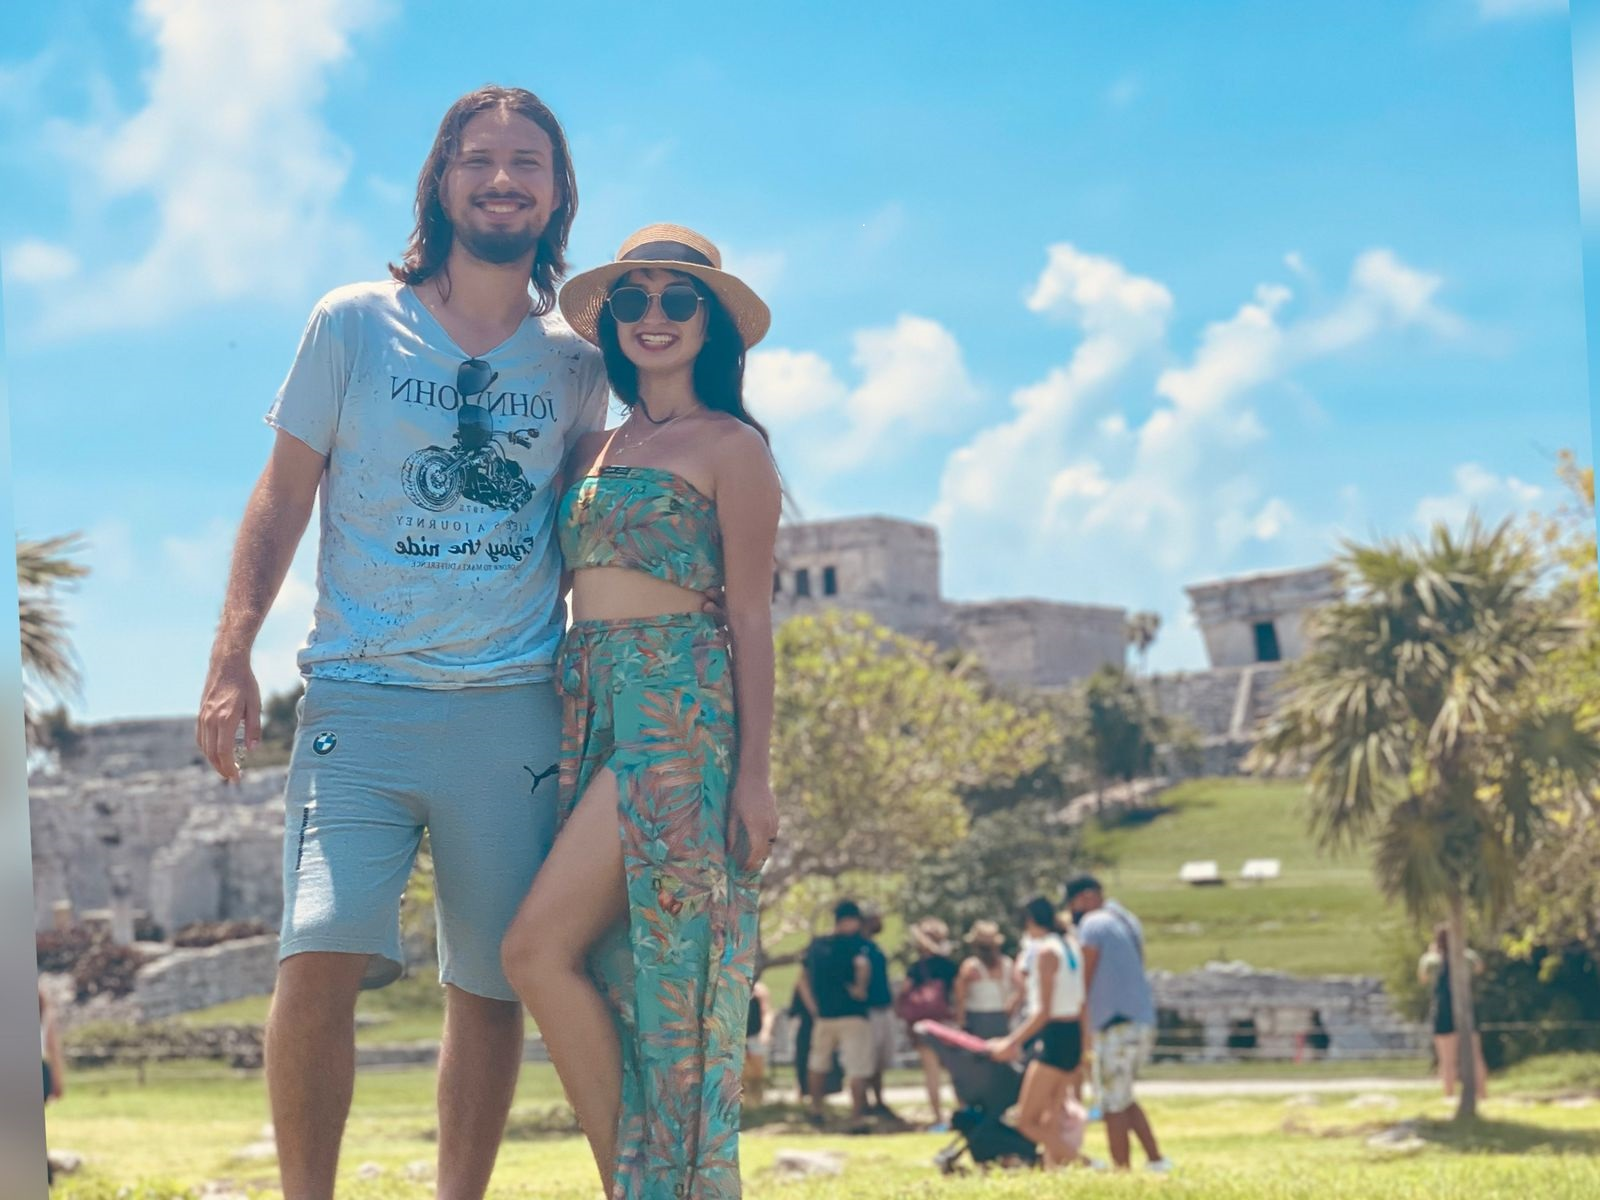
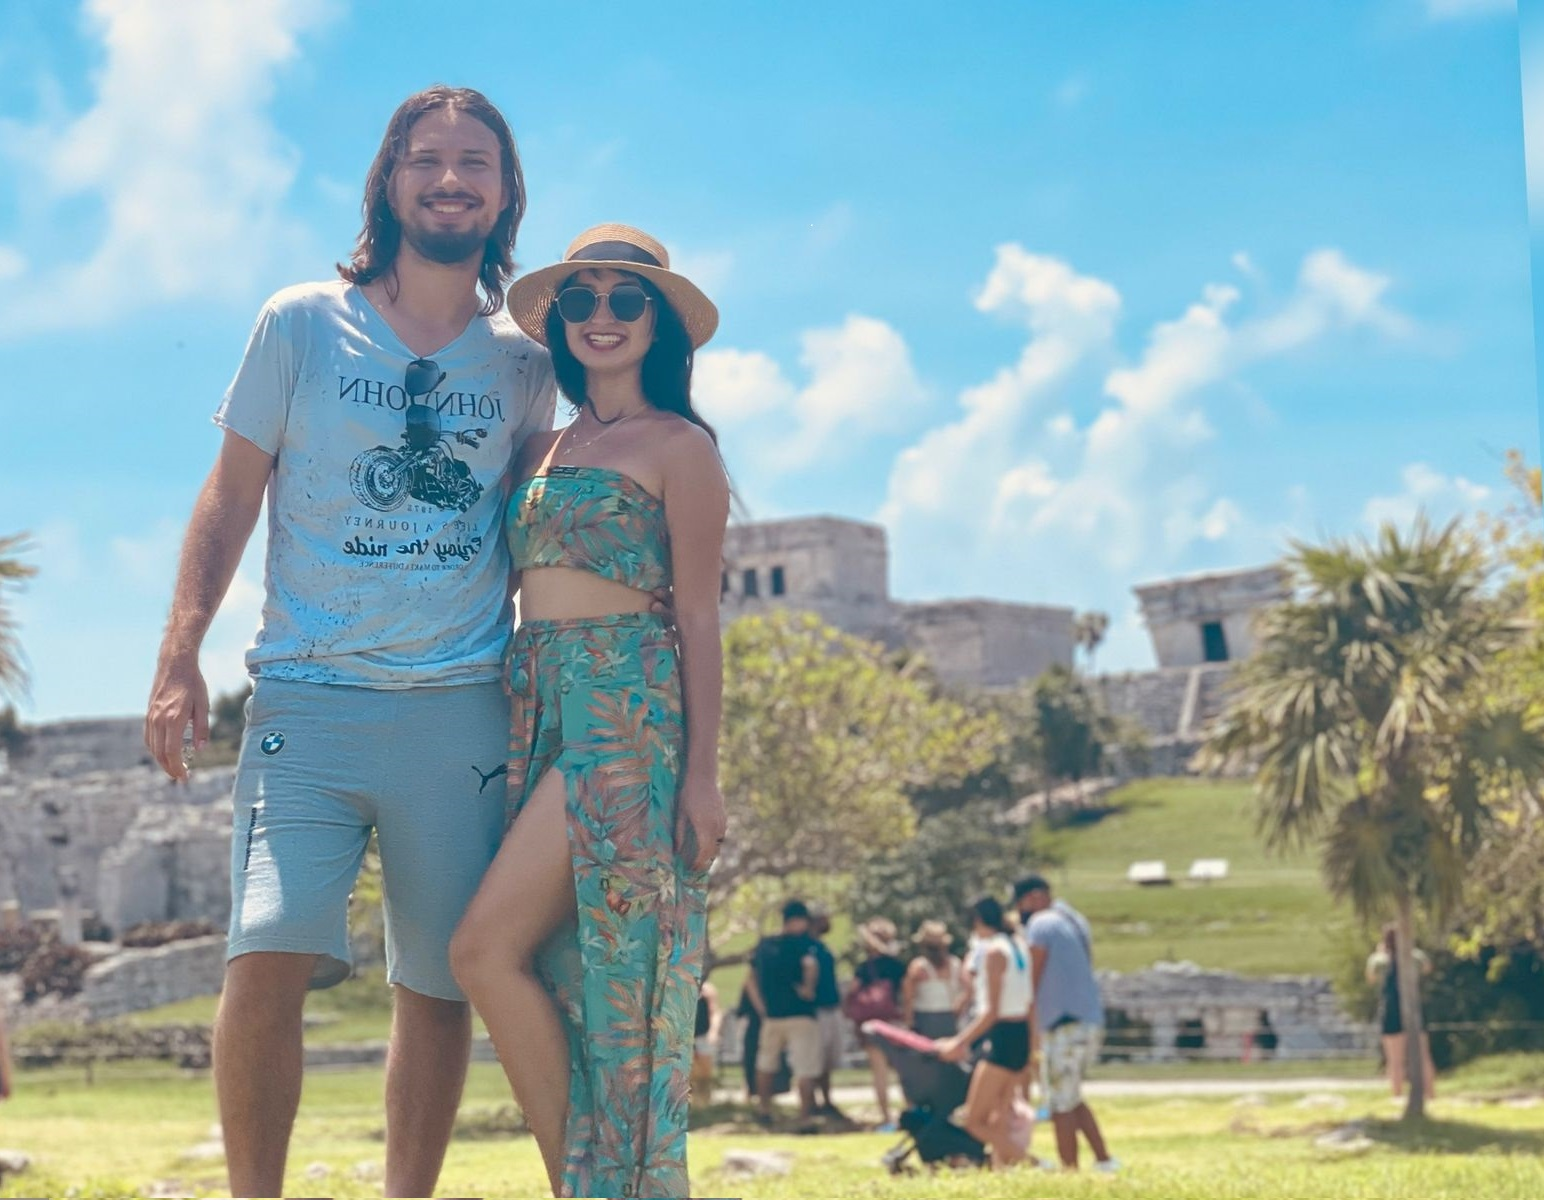
corrige borda da imagem de fundo

diff --git a/index.html b/index.html
@@ -68,7 +68,7 @@
 	<body>
 		
 	<div class="fh5co-loader"></div>
-	
+
 	<div id="page">
 	<nav class="fh5co-nav" role="navigation">
 		<div class="container">
@@ -179,6 +179,7 @@
 									</div>
 									<p>Local: Igreja Nossa Senhora Conceição Vila Arens<br/>
 									Endereço: R. Gen. Carneiro, 106 - Vila Arens II, Jundiaí - SP, 13202-590</p>
+									
 								</div>
 							</div>
 							<div class="col-md-6 col-sm-6 text-center">
@@ -587,47 +588,55 @@
 	<script src="js/main.js"></script>
 
 	<script>
-    // var d = new Date(new Date().getTime() + 200 * 120 * 120 * 2000);
-    var d = new Date('2022-12-10T16:00:00');
-
-    // default example
-    simplyCountdown('.simply-countdown-one', {
-        year: d.getFullYear(),
-        month: d.getMonth() + 1,
-        day: d.getDate()
-    });
-
-    //jQuery example
-    $('#simply-countdown-losange').simplyCountdown({
-        year: d.getFullYear(),
-        month: d.getMonth() + 1,
-        day: d.getDate(),
-        enableUtc: false
-    });
-
-	window.smoothScroll = function(target) {
-		var scrollContainer = target;
-		do { //find scroll container
-			scrollContainer = scrollContainer.parentNode;
-			if (!scrollContainer) return;
-			scrollContainer.scrollTop += 1;
-		} while (scrollContainer.scrollTop == 0);
-
-		var targetY = 0;
-		do { //find the top of target relatively to the container
-			if (target == scrollContainer) break;
-			targetY += target.offsetTop;
-		} while (target = target.offsetParent);
-
-		scroll = function(c, a, b, i) {
-			i++; if (i > 30) return;
-			c.scrollTop = a + (b - a) / 30 * i;
-			setTimeout(function(){ scroll(c, a, b, i); }, 20);
+		function myMap() {
+			var mapProp= {
+				center:new google.maps.LatLng(51.508742,-0.120850),
+				zoom:5,
+			};
+			var map = new google.maps.Map(document.getElementById("googleMap"),mapProp);
 		}
-		// start scrolling
-		scroll(scrollContainer, scrollContainer.scrollTop, targetY, 0);
-	}
-</script>
+		
+		// var d = new Date(new Date().getTime() + 200 * 120 * 120 * 2000);
+		var d = new Date('2022-12-10T16:00:00');
+
+		// default example
+		simplyCountdown('.simply-countdown-one', {
+			year: d.getFullYear(),
+			month: d.getMonth() + 1,
+			day: d.getDate()
+		});
+
+		//jQuery example
+		$('#simply-countdown-losange').simplyCountdown({
+			year: d.getFullYear(),
+			month: d.getMonth() + 1,
+			day: d.getDate(),
+			enableUtc: false
+		});
+
+		window.smoothScroll = function(target) {
+			var scrollContainer = target;
+			do { //find scroll container
+				scrollContainer = scrollContainer.parentNode;
+				if (!scrollContainer) return;
+				scrollContainer.scrollTop += 1;
+			} while (scrollContainer.scrollTop == 0);
+
+			var targetY = 0;
+			do { //find the top of target relatively to the container
+				if (target == scrollContainer) break;
+				targetY += target.offsetTop;
+			} while (target = target.offsetParent);
+
+			scroll = function(c, a, b, i) {
+				i++; if (i > 30) return;
+				c.scrollTop = a + (b - a) / 30 * i;
+				setTimeout(function(){ scroll(c, a, b, i); }, 20);
+			}
+			// start scrolling
+			scroll(scrollContainer, scrollContainer.scrollTop, targetY, 0);
+		}
+	</script>
 
 	</body>
 </html>
